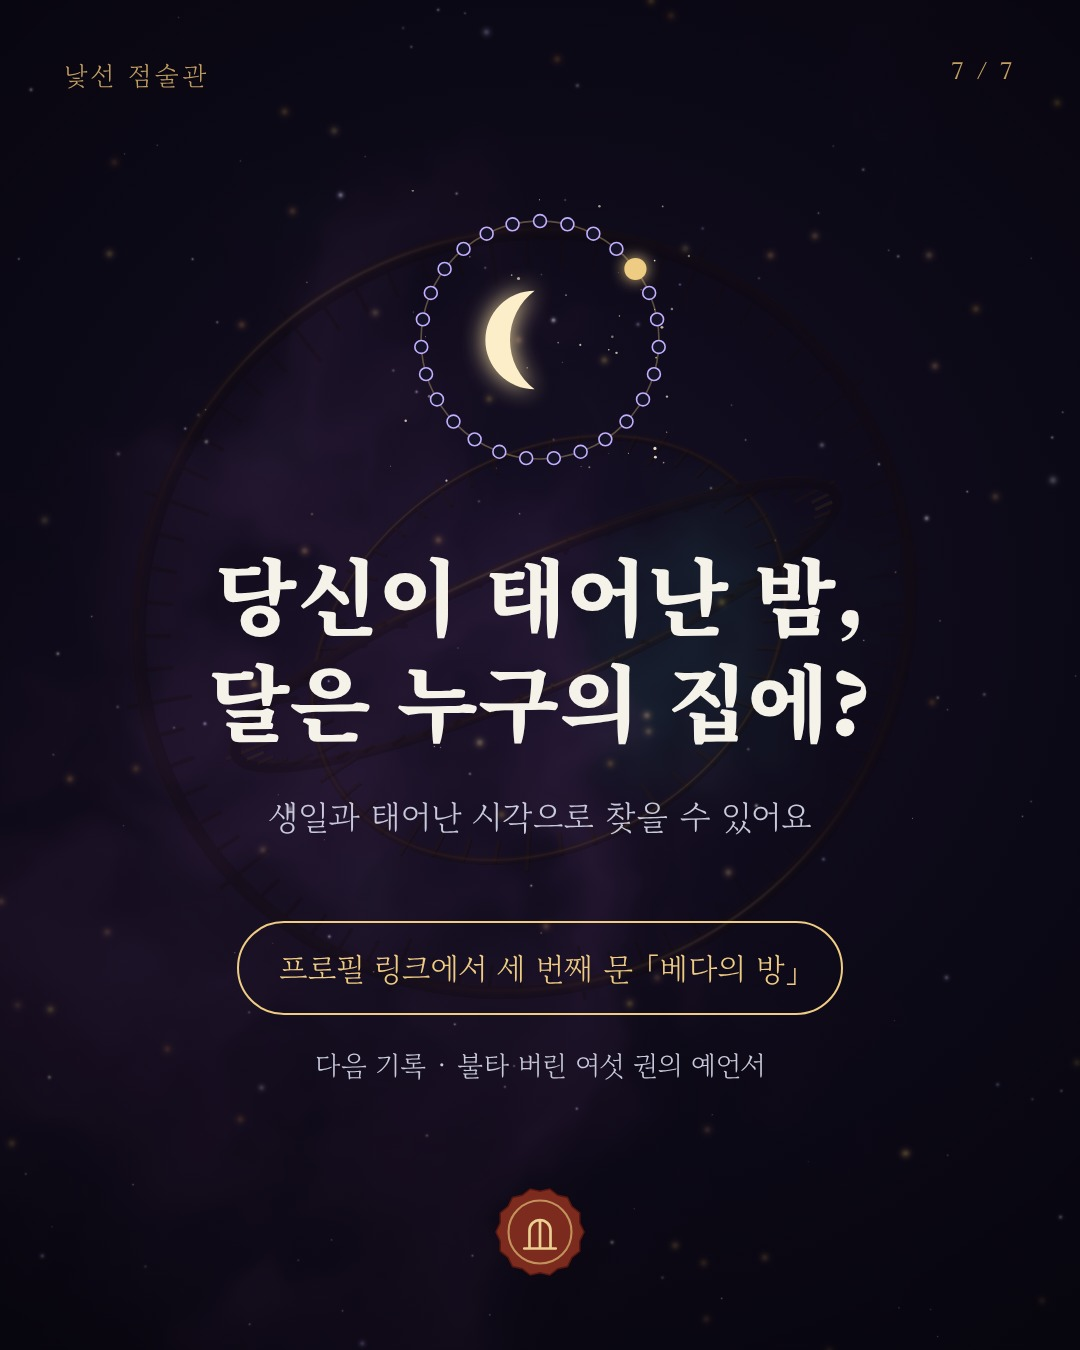
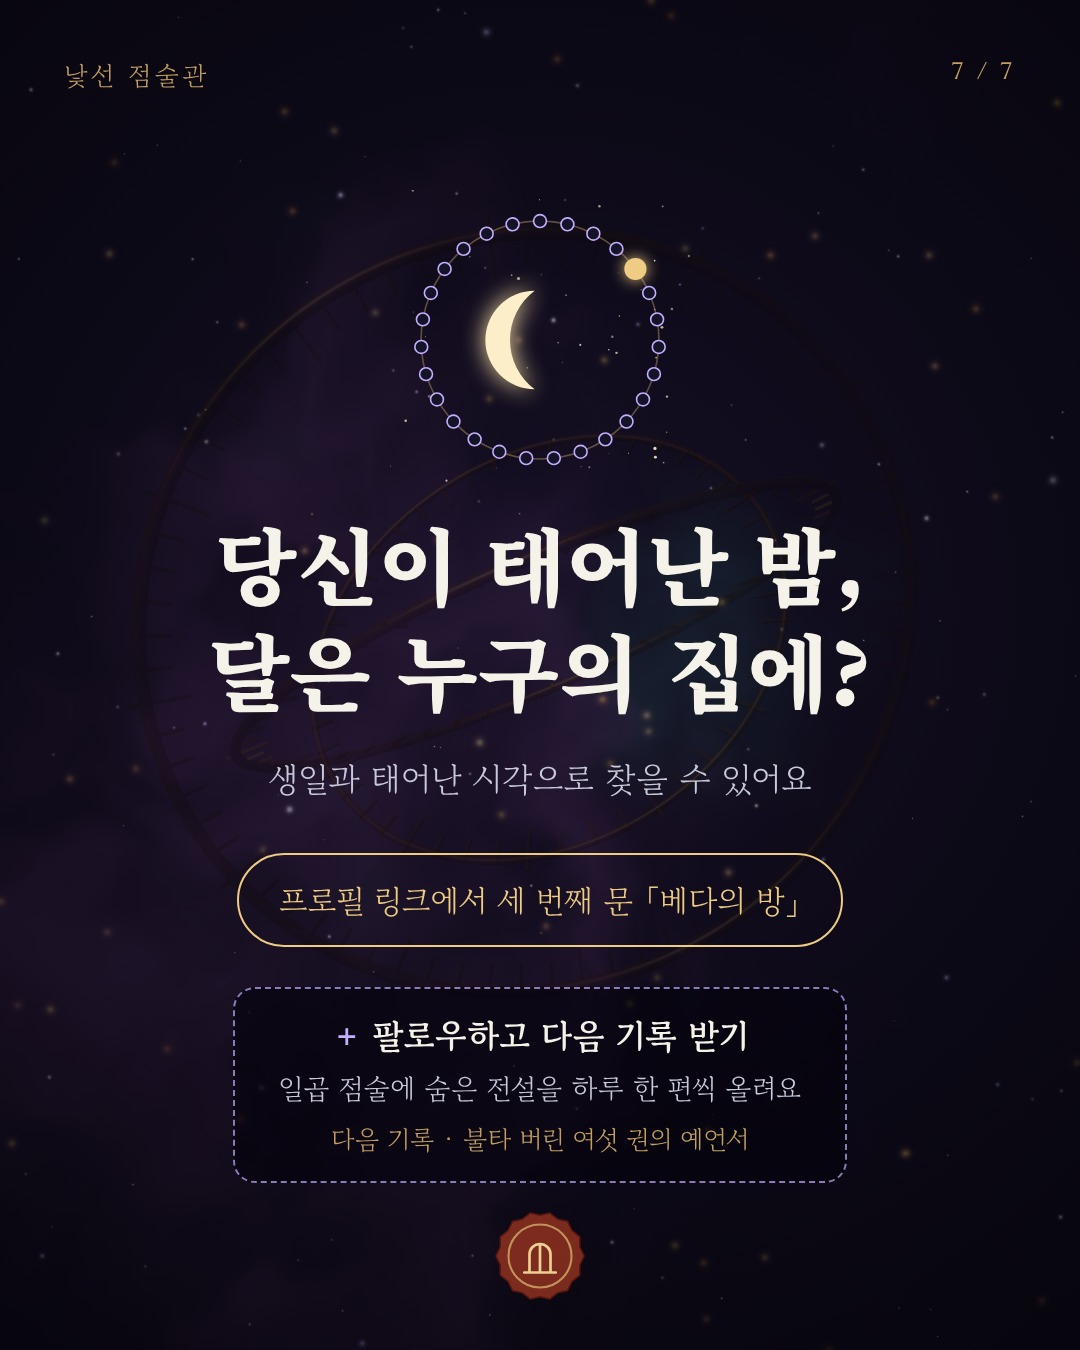
문 너머의 기록: 끝 장에 팔로우 안내 상자(하루 한 편씩) 추가, 게시글에도 반영
Claude-Session: https://claude.ai/code/session_016bUbrF7PUbqC6k7uRf6Myo

diff --git a/marketing/strange-oracle/instagram/lore.css b/marketing/strange-oracle/instagram/lore.css
@@ -47,12 +47,16 @@
 
 /* 끝 */
 .lr-cta .art-cta { position: absolute; left: 50%; top: 190px; width: 300px; height: 300px; margin-left: -150px; }
-.lr-cta .mid { position: absolute; left: 70px; right: 70px; top: 540px; text-align: center; }
+.lr-cta .mid { position: absolute; left: 70px; right: 70px; top: 510px; text-align: center; }
 .lr-cta .ask { margin: 0; font-family: var(--punch); font-weight: 900; font-size: 84px; line-height: 1.26; }
-.lr-cta .sub { margin: 40px 0 0; font-size: 34px; color: var(--ink-soft); }
-.lr-cta .pill { display: inline-block; margin: 80px 0 0; padding: 22px 40px; border-radius: 999px; border: 2px solid var(--gold); font-size: 32px; color: var(--gold); word-break: keep-all; }
-.lr-cta .nx { margin: 30px 0 0; font-size: 28px; color: var(--ink-soft); }
-.lr-cta .seal { position: absolute; left: 50%; bottom: 70px; width: 96px; height: 96px; margin-left: -48px; opacity: 0.95; }
+.lr-cta .sub { margin: 32px 0 0; font-size: 34px; color: var(--ink-soft); }
+.lr-cta .pill { display: inline-block; margin: 50px 0 0; padding: 22px 40px; border-radius: 999px; border: 2px solid var(--gold); font-size: 32px; color: var(--gold); word-break: keep-all; }
+.lr-cta .follow { margin: 40px auto 0; width: max-content; max-width: 100%; display: grid; gap: 8px; justify-items: center; padding: 22px 44px 24px; border-radius: 22px; border: 2px dashed color-mix(in oklch, var(--acc) 70%, transparent); background: oklch(0.1 0.03 285 / 0.6); }
+.lr-cta .follow b { font-weight: 700; font-size: 34px; color: var(--ink); }
+.lr-cta .follow b::before { content: "＋ "; color: var(--acc); }
+.lr-cta .follow span { font-size: 28px; color: var(--ink-soft); word-break: keep-all; }
+.lr-cta .follow .nx { margin-top: 4px; color: var(--gold-dim); font-size: 26px; }
+.lr-cta .seal { position: absolute; left: 50%; bottom: 46px; width: 96px; height: 96px; margin-left: -48px; opacity: 0.95; }
 
 /* SVG 그림 공통 */
 .art .ln { fill: none; stroke: var(--acc); stroke-width: 3; stroke-linecap: round; stroke-linejoin: round; }

diff --git a/marketing/strange-oracle/instagram/lore.js b/marketing/strange-oracle/instagram/lore.js
@@ -26,6 +26,9 @@
   };
   const at = (cx, cy, r, i) => { const a = -Math.PI / 2 + (i / 27) * Math.PI * 2; return [cx + r * Math.cos(a), cy + r * Math.sin(a)]; };
 
+  // 끝 장 팔로우 안내(모든 편 공통)
+  const FOLLOW = { head: "팔로우하고 다음 기록 받기", body: "일곱 점술에 숨은 전설을 하루 한 편씩 올려요" };
+
   const ART = {
     // 표지: 달의 집 스물일곱 고리 + 가운데 초승달 (viewBox 0 0 560 560)
     cover: () => `${stars(40, 560, 560)}<circle class="gd" cx="280" cy="280" r="222" opacity="0.35" />${ring(280, 280, 222, 4, 12)}${crescent(270, 280, 92)}`,
@@ -147,7 +150,7 @@
   } else {
     page.classList.add("lr-cta");
     page.innerHTML = `${head}<svg class="art art-cta" viewBox="0 0 560 560">${ART.cover()}</svg>
-      <div class="mid"><p class="ask">${E.cta.ask}</p><p class="sub">${E.cta.sub}</p><p class="pill">${E.cta.pill}</p><p class="nx">${E.cta.next}</p></div>${SEAL}`;
+      <div class="mid"><p class="ask">${E.cta.ask}</p><p class="sub">${E.cta.sub}</p><p class="pill">${E.cta.pill}</p><div class="follow"><b>${FOLLOW.head}</b><span>${FOLLOW.body}</span><span class="nx">${E.cta.next}</span></div></div>${SEAL}`;
   }
 
   // 안내자 실루엣은 제품 화면의 SVG를 그대로 가져다 쓴다(같은 그림)

diff --git a/marketing/strange-oracle/sns.md b/marketing/strange-oracle/sns.md
@@ -715,7 +715,7 @@
 
 ### 「문 너머의 기록」 전설 그림 이야기 캐러셀 (2026-11-01, `instagram/out/lore/<편>-NN.jpg`, 4:5, 7장)
 운영자 의견(2026-11-01): 유래 설명은 정보 전달이라 느슨하다 → 각 점술에 담긴 **설화·전설**을 주제로 한다.
-쪽 구성: 표지(질문 한 줄) → 장면 넷(그림 칸 + 안내자 말풍선, 이야기만) → 전설과 하늘(어디에 전하는지·판본 차이 / 실제 하늘·방과의 연결) → 끝(프로필로, 주인의 봉인). 그림은 직접 그린 SVG와 제품의 안내자 실루엣뿐(8장). 다시 찍기: `render-lore.js [편]`(이 컨테이너에서는 `EDGE_PATH`에 `--no-sandbox`를 붙인 Chromium 실행 파일). 새 편은 `instagram/lore.js`의 EP에 더한다.
+쪽 구성: 표지(질문 한 줄) → 장면 넷(그림 칸 + 안내자 말풍선, 이야기만) → 전설과 하늘(어디에 전하는지·판본 차이 / 실제 하늘·방과의 연결) → 끝(프로필로 + 팔로우 안내 상자 "팔로우하고 다음 기록 받기 / 하루 한 편씩" + 다음 편 예고, 주인의 봉인). 팔로우 문구는 `lore.js`의 FOLLOW 한 곳(모든 편 공통). 그림은 직접 그린 SVG와 제품의 안내자 실루엣뿐(8장). 다시 찍기: `render-lore.js [편]`(이 컨테이너에서는 `EDGE_PATH`에 `--no-sandbox`를 붙인 Chromium 실행 파일). 새 편은 `instagram/lore.js`의 EP에 더한다.
 순서·주제 제안(하루 한 편, 운영자 확인 전):
 | 화 | 방 | 전설 |
 |---|---|---|
@@ -739,7 +739,8 @@
 그래서 달은 지금도 스물일곱 아내의 집을 하룻밤씩 찾아간대요.
 당신이 태어난 밤, 달은 누구의 집에 있었을까요?
 
-다음 기록은 불타 버린 여섯 권의 예언서. 저장해 두고 이어서 보세요.
+팔로우하면 일곱 점술에 숨은 전설을 하루 한 편씩 만날 수 있어요.
+다음 기록은 불타 버린 여섯 권의 예언서.
 
 프로필 링크에서 세 번째 문
 
